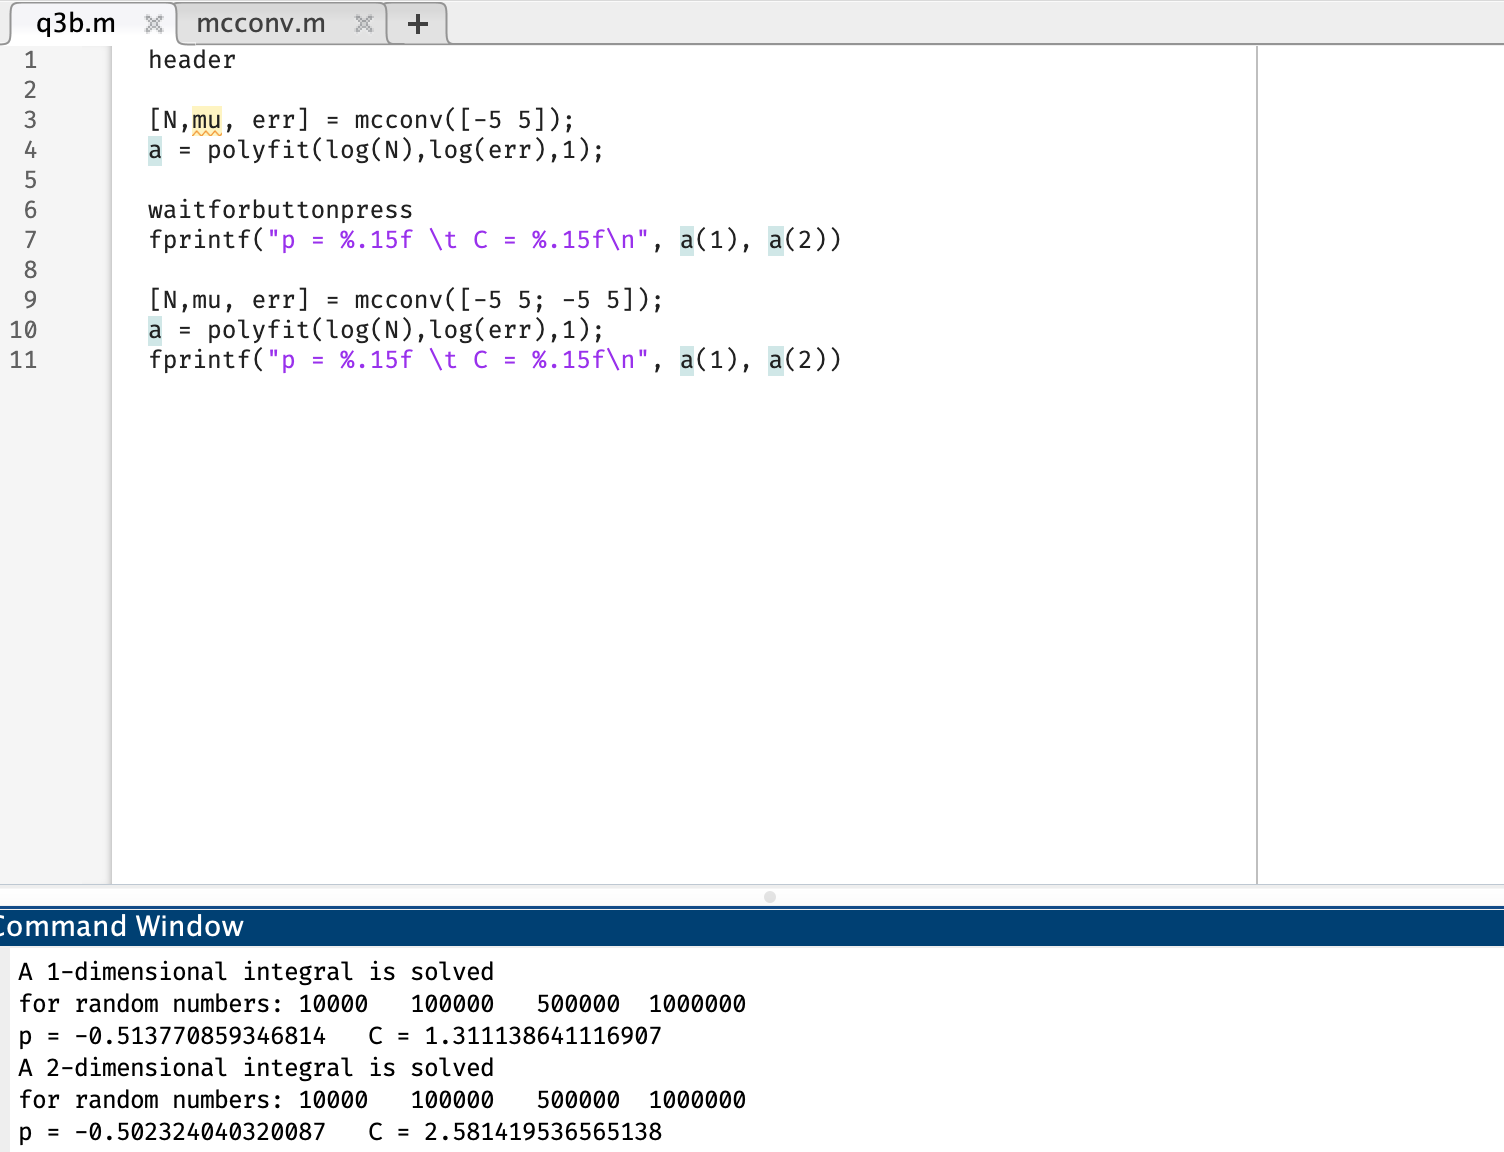
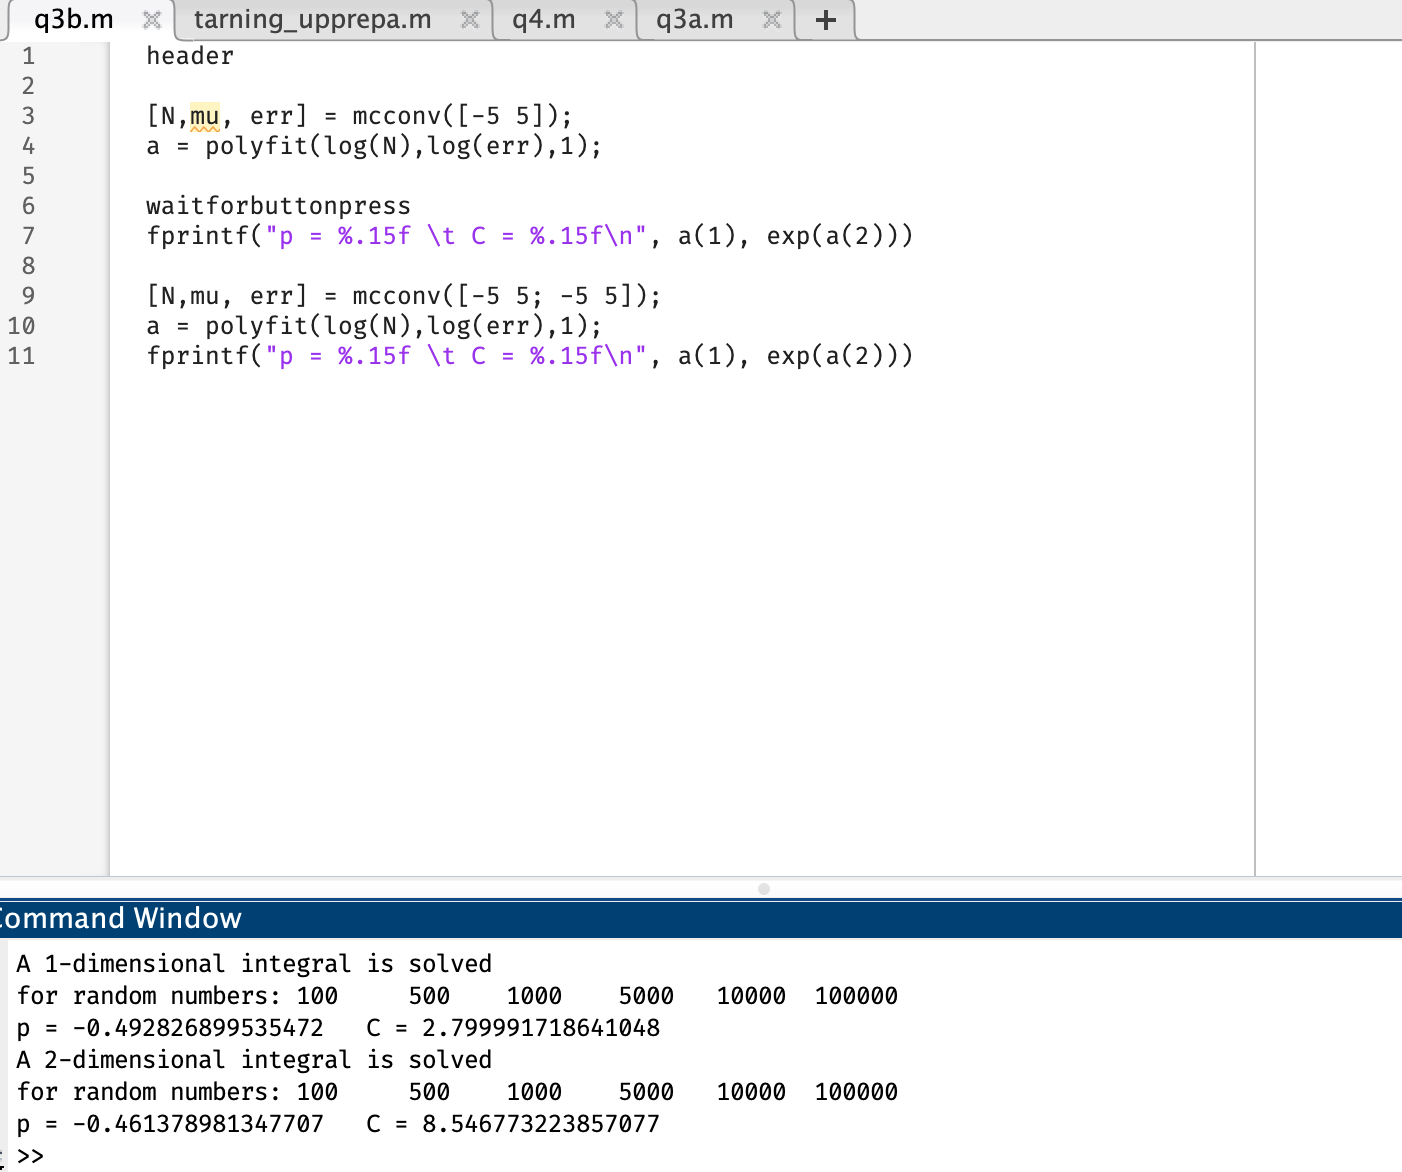
minor changes

diff --git a/Lab 2/report/report.tex b/Lab 2/report/report.tex
@@ -212,8 +212,8 @@ logical since we take the mean of more throws before adding them. This should cr
         \caption{Results for 2d}
     \end{subfigure}
 \end{figure}
-The probability function \( f \)  determines the probability of a single dice getting a value, as such we need to multiply it by \( 1000 \) to make it 
-fit our result.
+The magnitude of the function \( f \) is dependent on \( n \) so we need to multiply the function 
+to make it fit our histogram.
 
 \subsection{(e)}
 \begin{figure}[H]
@@ -270,8 +270,21 @@ Looking at their y-values in the histogram they are about a fifth of the height 
     \caption{Code for question 3a}
 \end{figure}
 
+\subsection{(b)}
 
+\begin{figure}[H]
+    \centering
+    \includegraphics[width=\linewidth]{imgs/q3b.png}
+    \caption{Question 3b}
+    \label{q3b}
+\end{figure}
+We can see that \( p \) does not change very much depending on the dimension.
+However \( C \) increases a lot when increasing dimention as you can see in Figure \ref{q3b}.
 
+\subsection{(c)}
+
+Monte Carlo is more efficient in higher dimensions than the Trapezoid method. This is because of the \textit{Curse of Dimensionality}
+which states that when dimensionality.
 \newpage
 \section{Question 4}
 

diff --git a/Lab 2/q4.m b/Lab 2/q4.m
@@ -1,15 +1,14 @@
 header
 cumwinloss = 0;
-day = 1;
 
-while day < 366
+for i = 1:365
     bs = blackjacksim(100);
     cumwinloss = cumwinloss + bs(end);
-    day = day+1;
 end
+
 if cumwinloss > 0
-    fprintf("Total yearly earnings is %d\n", cumwinloss)
+    fprintf("Total yearly earnings is %d €\n", cumwinloss)
 else
-    fprintf("Total yearly losses is %d\n", cumwinloss)    
+    fprintf("Total yearly losses is %d €\n", cumwinloss)    
 end
 

diff --git a/Lab 2/q3b.m b/Lab 2/q3b.m
@@ -4,8 +4,8 @@ header
 a = polyfit(log(N),log(err),1);
 
 waitforbuttonpress
-fprintf("p = %.15f \t C = %.15f\n", a(1), a(2))
+fprintf("p = %.15f \t C = %.15f\n", a(1), exp(a(2)))
 
 [N,mu, err] = mcconv([-5 5; -5 5]); 
 a = polyfit(log(N),log(err),1);
-fprintf("p = %.15f \t C = %.15f\n", a(1), a(2))
+fprintf("p = %.15f \t C = %.15f\n", a(1), exp(a(2)))
